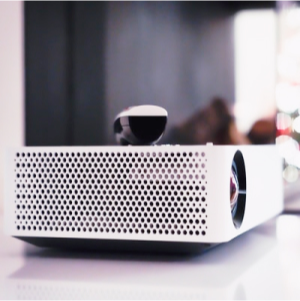
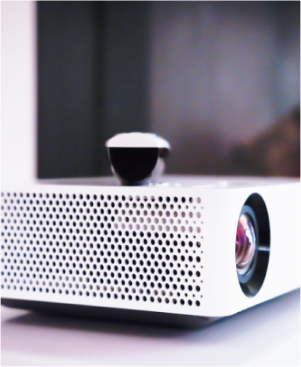
一旦完成

diff --git a/css/style.css b/css/style.css
@@ -984,6 +984,11 @@ th {
   background: var(--White, #fff);
   padding: 4px 24px;
 }
+@media screen and (max-width: 350px) {
+  .mv__text p {
+    padding-inline: 4px;
+  }
+}
 @media (width <= 767px) {
   .mv__text {
     font-size: 1.75rem;
@@ -1001,6 +1006,11 @@ th {
 }
 .mv__text--small p {
   padding: 8px 24px;
+}
+@media screen and (max-width: 350px) {
+  .mv__text--small p {
+    padding-inline: 4px;
+  }
 }
 @media (width <= 767px) {
   .mv__text--small {
@@ -1350,7 +1360,7 @@ th {
   -webkit-box-align: center;
       -ms-flex-align: center;
           align-items: center;
-  background: url(../../img/realization/pr.png), lightgray 50%/cover no-repeat;
+  background: url(../../img/realization/pr.png), 50%/cover no-repeat;
 }
 @media (width <= 767px) {
   .pr {
@@ -1376,6 +1386,14 @@ th {
     letter-spacing: 0.04em;
   }
 }
+@media screen and (max-width: 350px) {
+  .pr--text {
+    font-size: 0.8rem;
+    font-weight: 700;
+    line-height: 1.5;
+    letter-spacing: 0.04em;
+  }
+}
 
 .pr--text-l {
   font-size: 4rem;
@@ -1389,6 +1407,14 @@ th {
     font-weight: 700;
     line-height: 1.5;
     letter-spacing: 0.04em;
+  }
+}
+@media screen and (max-width: 350px) {
+  .pr--text-l {
+    font-size: 1.8rem;
+    font-weight: 700;
+    line-height: 1.5;
+    letter-spacing: 0.03125em;
   }
 }
 
@@ -1869,6 +1895,14 @@ th {
   display: inline-block;
   background: var(--Gold, #948260);
 }
+@media screen and (max-width: 350px) {
+  .realization2__text--main p {
+    font-size: 1.3125rem;
+    font-weight: 700;
+    line-height: 1.5428571429;
+    letter-spacing: 0.0411428571em;
+  }
+}
 
 .realization2__text--sub {
   padding-right: 27px;
@@ -2017,8 +2051,8 @@ th {
   }
   .realization2__img--right img, .realization2__item-scene02 .realization2__img--right img {
     aspect-ratio: 311/176;
-    -o-object-position: top -141px left 2px;
-       object-position: top -141px left 2px;
+    -o-object-position: top 50% left 2px;
+       object-position: top 50% left 2px;
   }
 }
 
@@ -2182,7 +2216,8 @@ th {
 }
 
 .features__item {
-  padding: 32px calc(20px + 140 * (100vw - 768px) / 672);
+  padding-block: 32px;
+  padding-inline: calc(20px + 86 * (100vw - 768px) / 672);
   display: -webkit-box;
   display: -ms-flexbox;
   display: flex;
@@ -2334,6 +2369,9 @@ th {
     -webkit-box-direction: normal;
         -ms-flex-direction: column;
             flex-direction: column;
+    -webkit-box-align: center;
+        -ms-flex-align: center;
+            align-items: center;
     gap: 32px;
   }
 }
@@ -2503,7 +2541,6 @@ th {
 }
 
 .faq__answer {
-  margin-top: 24px;
   gap: 24px;
   padding-inline: 22px;
   display: -webkit-box;
@@ -2521,6 +2558,7 @@ th {
   -webkit-transform: revert;
           transform: revert;
   height: revert;
+  margin-top: 24px;
 }
 @media (width <= 767px) {
   .faq__answer {

diff --git a/index.html b/index.html
@@ -360,7 +360,7 @@
                     </div>
                   </div>
                   <div class="realization2__lineup--item">
-                    <div class="realization2__lineup--img"><img src="./img/realization2/img_projector.png" alt="持ち運び可能なスピーカー" width="300" height="301" /></div>
+                    <div class="realization2__lineup--img"><img src="./img/realization2/img_projector2.png" alt="持ち運び可能なスピーカー" width="300" height="301" /></div>
                     <div class="realization2__lineup--text">
                       <div class="realization2__lineup--title">Mobile Projector</div>
                       <div class="realization2__lineup--message">Silver</div>
@@ -406,9 +406,8 @@
                 <div class="realization2__text--sub-title onepointadvice">ONE POINT ADVICE</div>
                 <div class="realization2__text--sub-message">
                   <p>
-                    お部屋のコーディネートをまとめるコツの一つとして、<br
-                      class="hidden-pc"
-                    />同系色を散らして使うテクニックがあります。寒い冬の日でもどこかあたたかさと落ち着きを感じさせるベージュ〜ブラウンのアースカラーを試してみては？
+                    お部屋のコーディネートをまとめるコツの一つとして、<br class="hidden-pc" /><span class="span display-inline-block">同系色</span
+                    >を散らして使うテクニックがあります。寒い冬の日でもどこかあたたかさと落ち着きを感じさせるベージュ〜ブラウンのアースカラーを試してみては？
                   </p>
                 </div>
                 <div class="realization2__img--right"><img src="./img/realization2/img_room-right.png" alt="ソファのある部屋" width="299" height="366" /></div>

diff --git a/sass/blocks/_pr.scss b/sass/blocks/_pr.scss
@@ -6,7 +6,7 @@
   display: flex;
   justify-content: center;
   align-items: center;
-  background: url(../../img/realization/pr.png), lightgray 50% / cover no-repeat;
+  background: url(../../img/realization/pr.png), 50% / cover no-repeat;
 
   @include mq(sp) {
     gap: 16px;
@@ -20,11 +20,17 @@
   @include mq(sp) {
     @include font(16, 700, 24, 0.64);
   }
+  @media screen and (max-width: 350px) {
+    @include font(12.8, 700, 19.2, 0.512);
+  }
 }
 .pr--text-l {
   @include font(64, 700, 96, 2.56);
   @include mq(sp) {
     @include font(32, 700, 48, 1.28);
+  }
+  @media screen and (max-width: 350px) {
+    @include font(28.8, 700, 43.2, 0.9);
   }
 }
 .pr--img {

diff --git a/sass/blocks/_realization2.scss b/sass/blocks/_realization2.scss
@@ -111,6 +111,9 @@
     padding: 4px 8px 4px 6px;
     display: inline-block;
     background: var(--Gold, #948260);
+    @media screen and (max-width: 350px) {
+      @include font(21, 700, 32.4, 0.864);
+    }
   }
   // margin-right: auto;
 }
@@ -278,8 +281,7 @@
       width: 100%;
       img {
         aspect-ratio: 311 / 176;
-        // object-position: top 50% left 2px;
-        object-position: top -141px left 2px;
+        object-position: top 50% left 2px;
       }
     }
   }

diff --git a/sass/blocks/_mv.scss b/sass/blocks/_mv.scss
@@ -35,6 +35,9 @@
     display: inline-block;
     background: var(--White, #fff);
     padding: 4px 24px;
+    @media screen and (max-width: 350px) {
+      padding-inline: 4px;
+    }
   }
   color: var(--Gray01, #565956);
   @include font(40, 700, 60, 1.6);
@@ -47,6 +50,9 @@
   @include font(24, 700, 36, 0.96);
   p {
     padding: 8px 24px;
+    @media screen and (max-width: 350px) {
+      padding-inline: 4px;
+    }
   }
   @include mq(sp) {
     @include font(16, 700, 24, 0.64);

diff --git a/sass/blocks/_features.scss b/sass/blocks/_features.scss
@@ -26,7 +26,9 @@
 }
 
 .features__item {
-  padding: 32px calc(20px + (160 - 20) * ((100vw - #{map.get($width, tab-comp)}px) / (map.get($width, pc-comp) - map.get($width, tab-comp))));
+  padding-block: 32px;
+  // padding-inline: size-calc(20, 106, 768, 1440);
+  padding-inline: calc(20px + (106 - 20) * ((100vw - #{map.get($width, tab-comp)}px) / (map.get($width, pc-comp) - map.get($width, tab-comp))));
   display: flex;
   gap: 80px;
   justify-content: center;

diff --git a/sass/blocks/_faq.scss b/sass/blocks/_faq.scss
@@ -60,7 +60,6 @@
   }
 }
 .faq__answer {
-  margin-top: 24px;
   gap: 24px;
   padding-inline: 22px;
   display: flex;
@@ -72,6 +71,7 @@
     opacity: 1;
     transform: revert;
     height: revert;
+    margin-top: 24px;
   }
   @include mq(sp) {
     padding-inline: 0px;

diff --git a/sass/blocks/_howtouse.scss b/sass/blocks/_howtouse.scss
@@ -20,6 +20,7 @@
   }
   @include mq(sp) {
     flex-direction: column;
+    align-items: center;
     gap: 32px;
   }
 }
